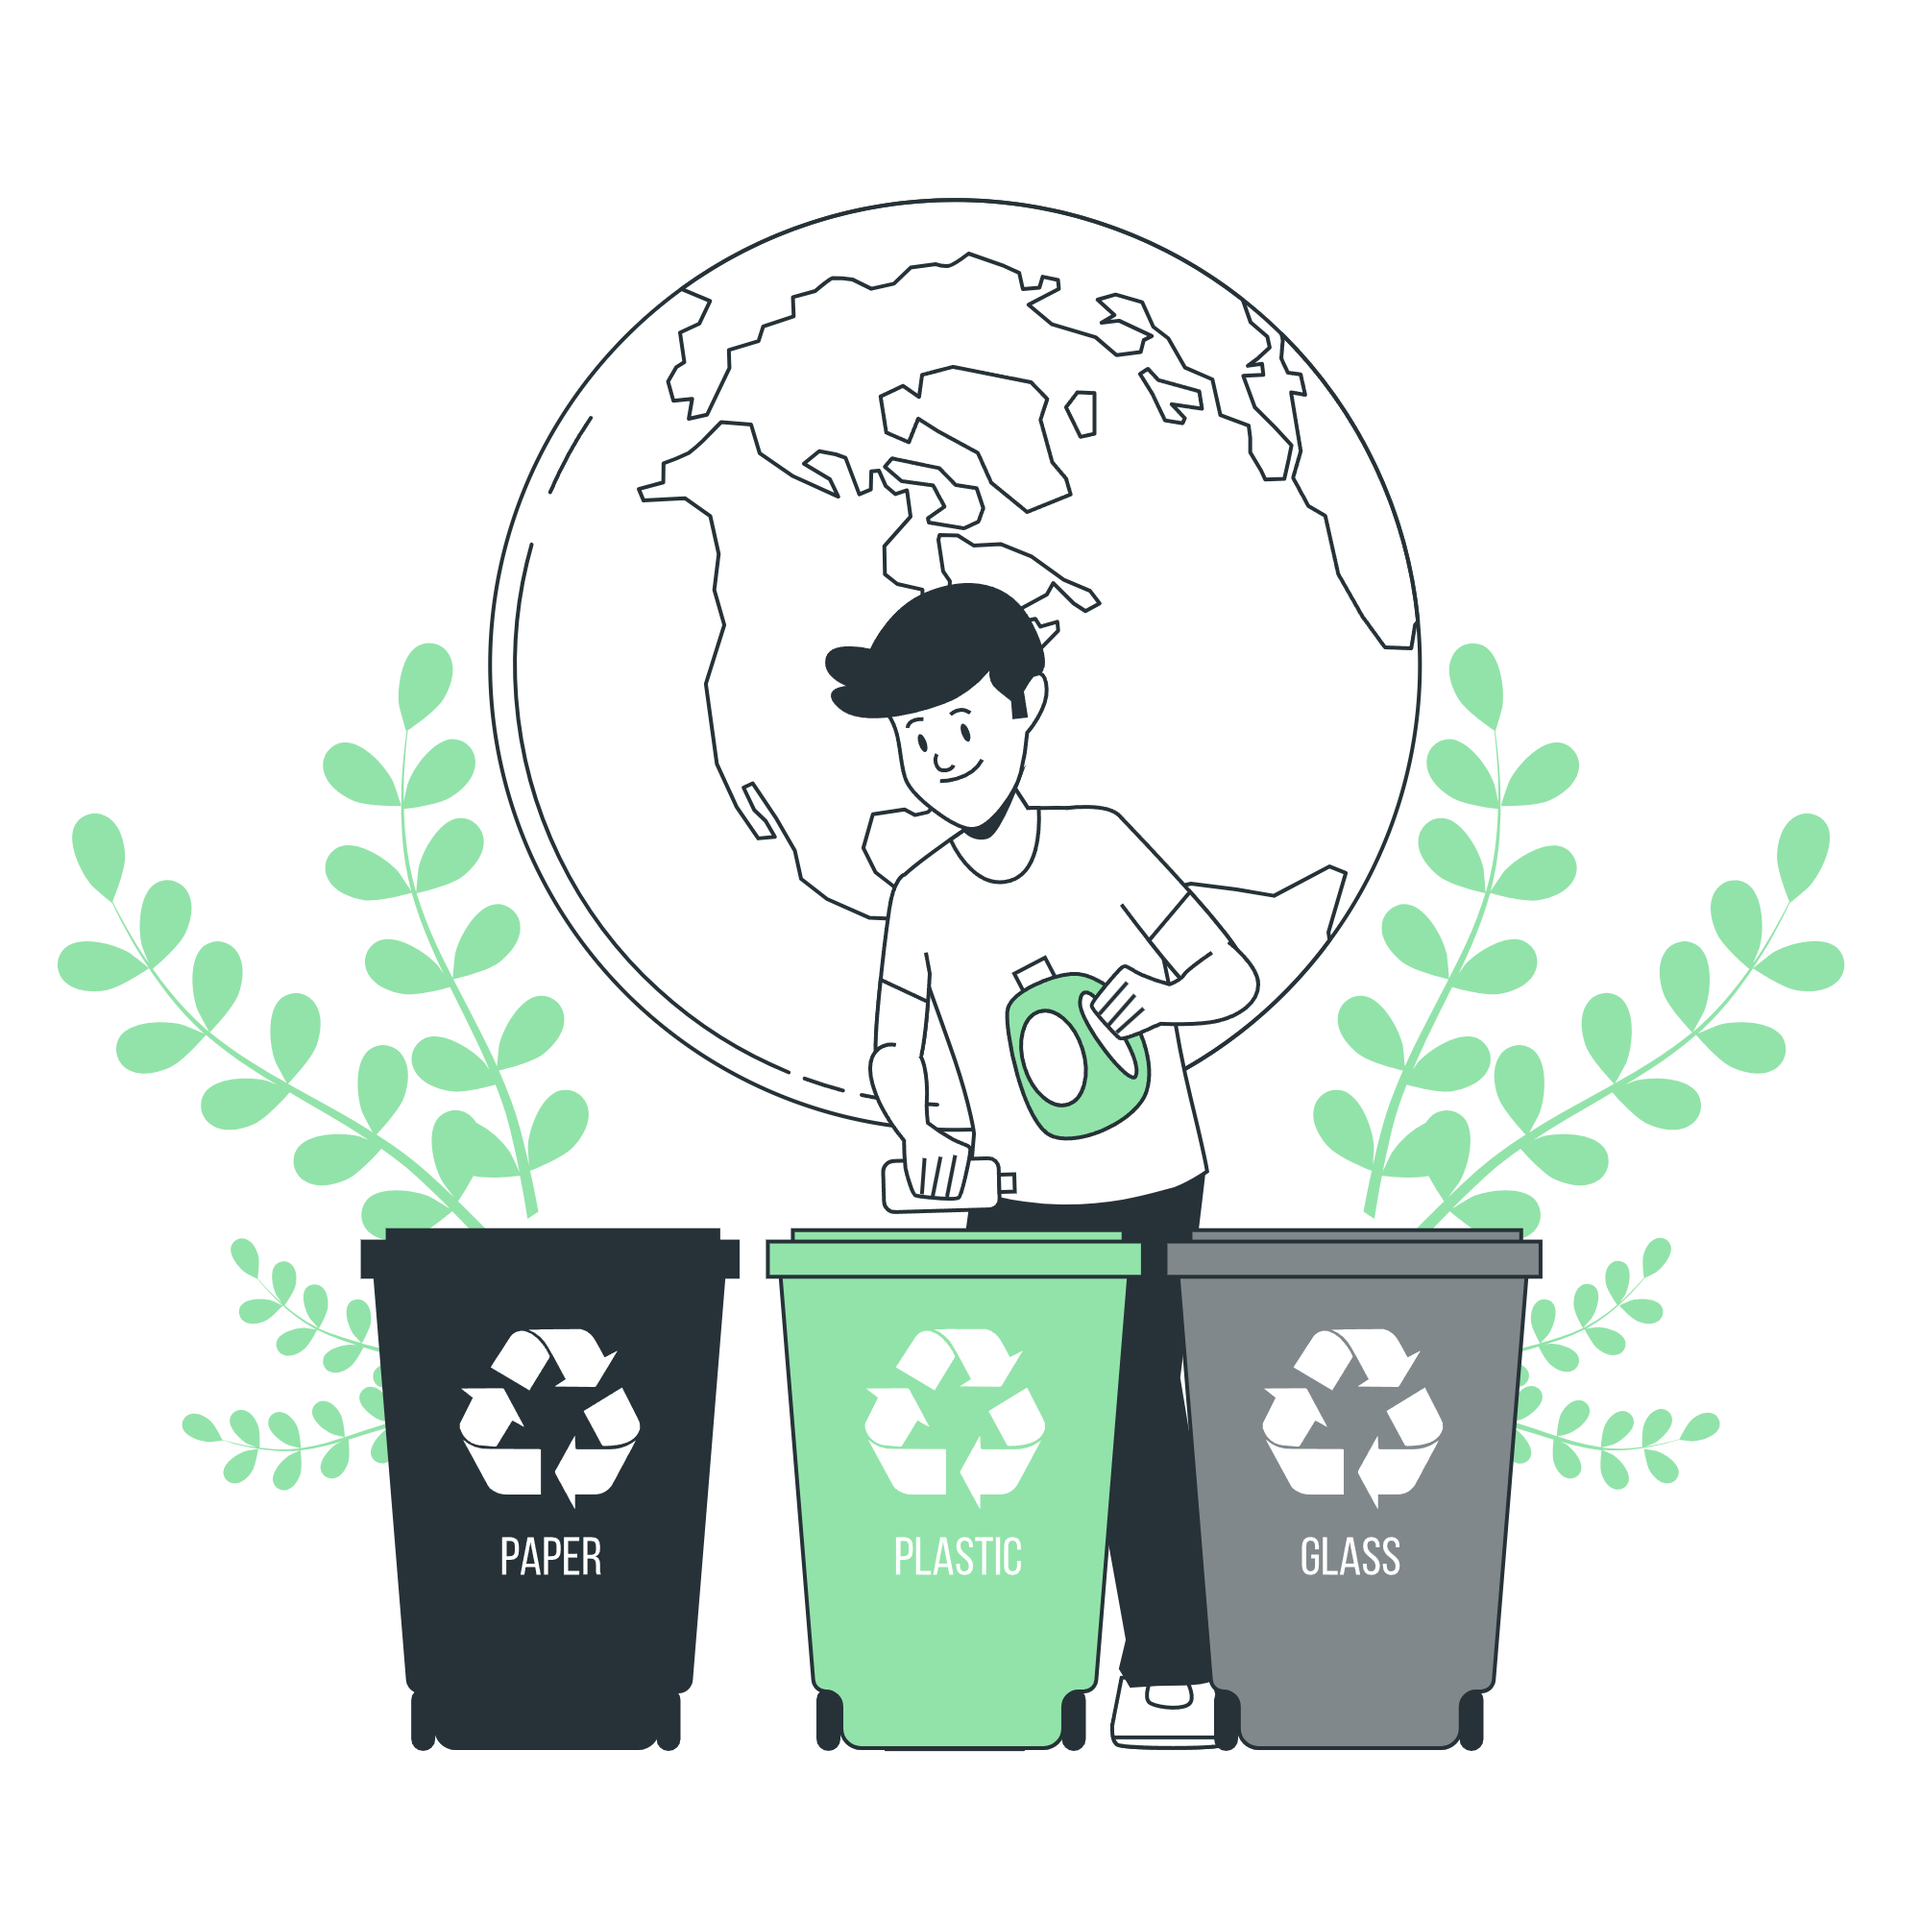
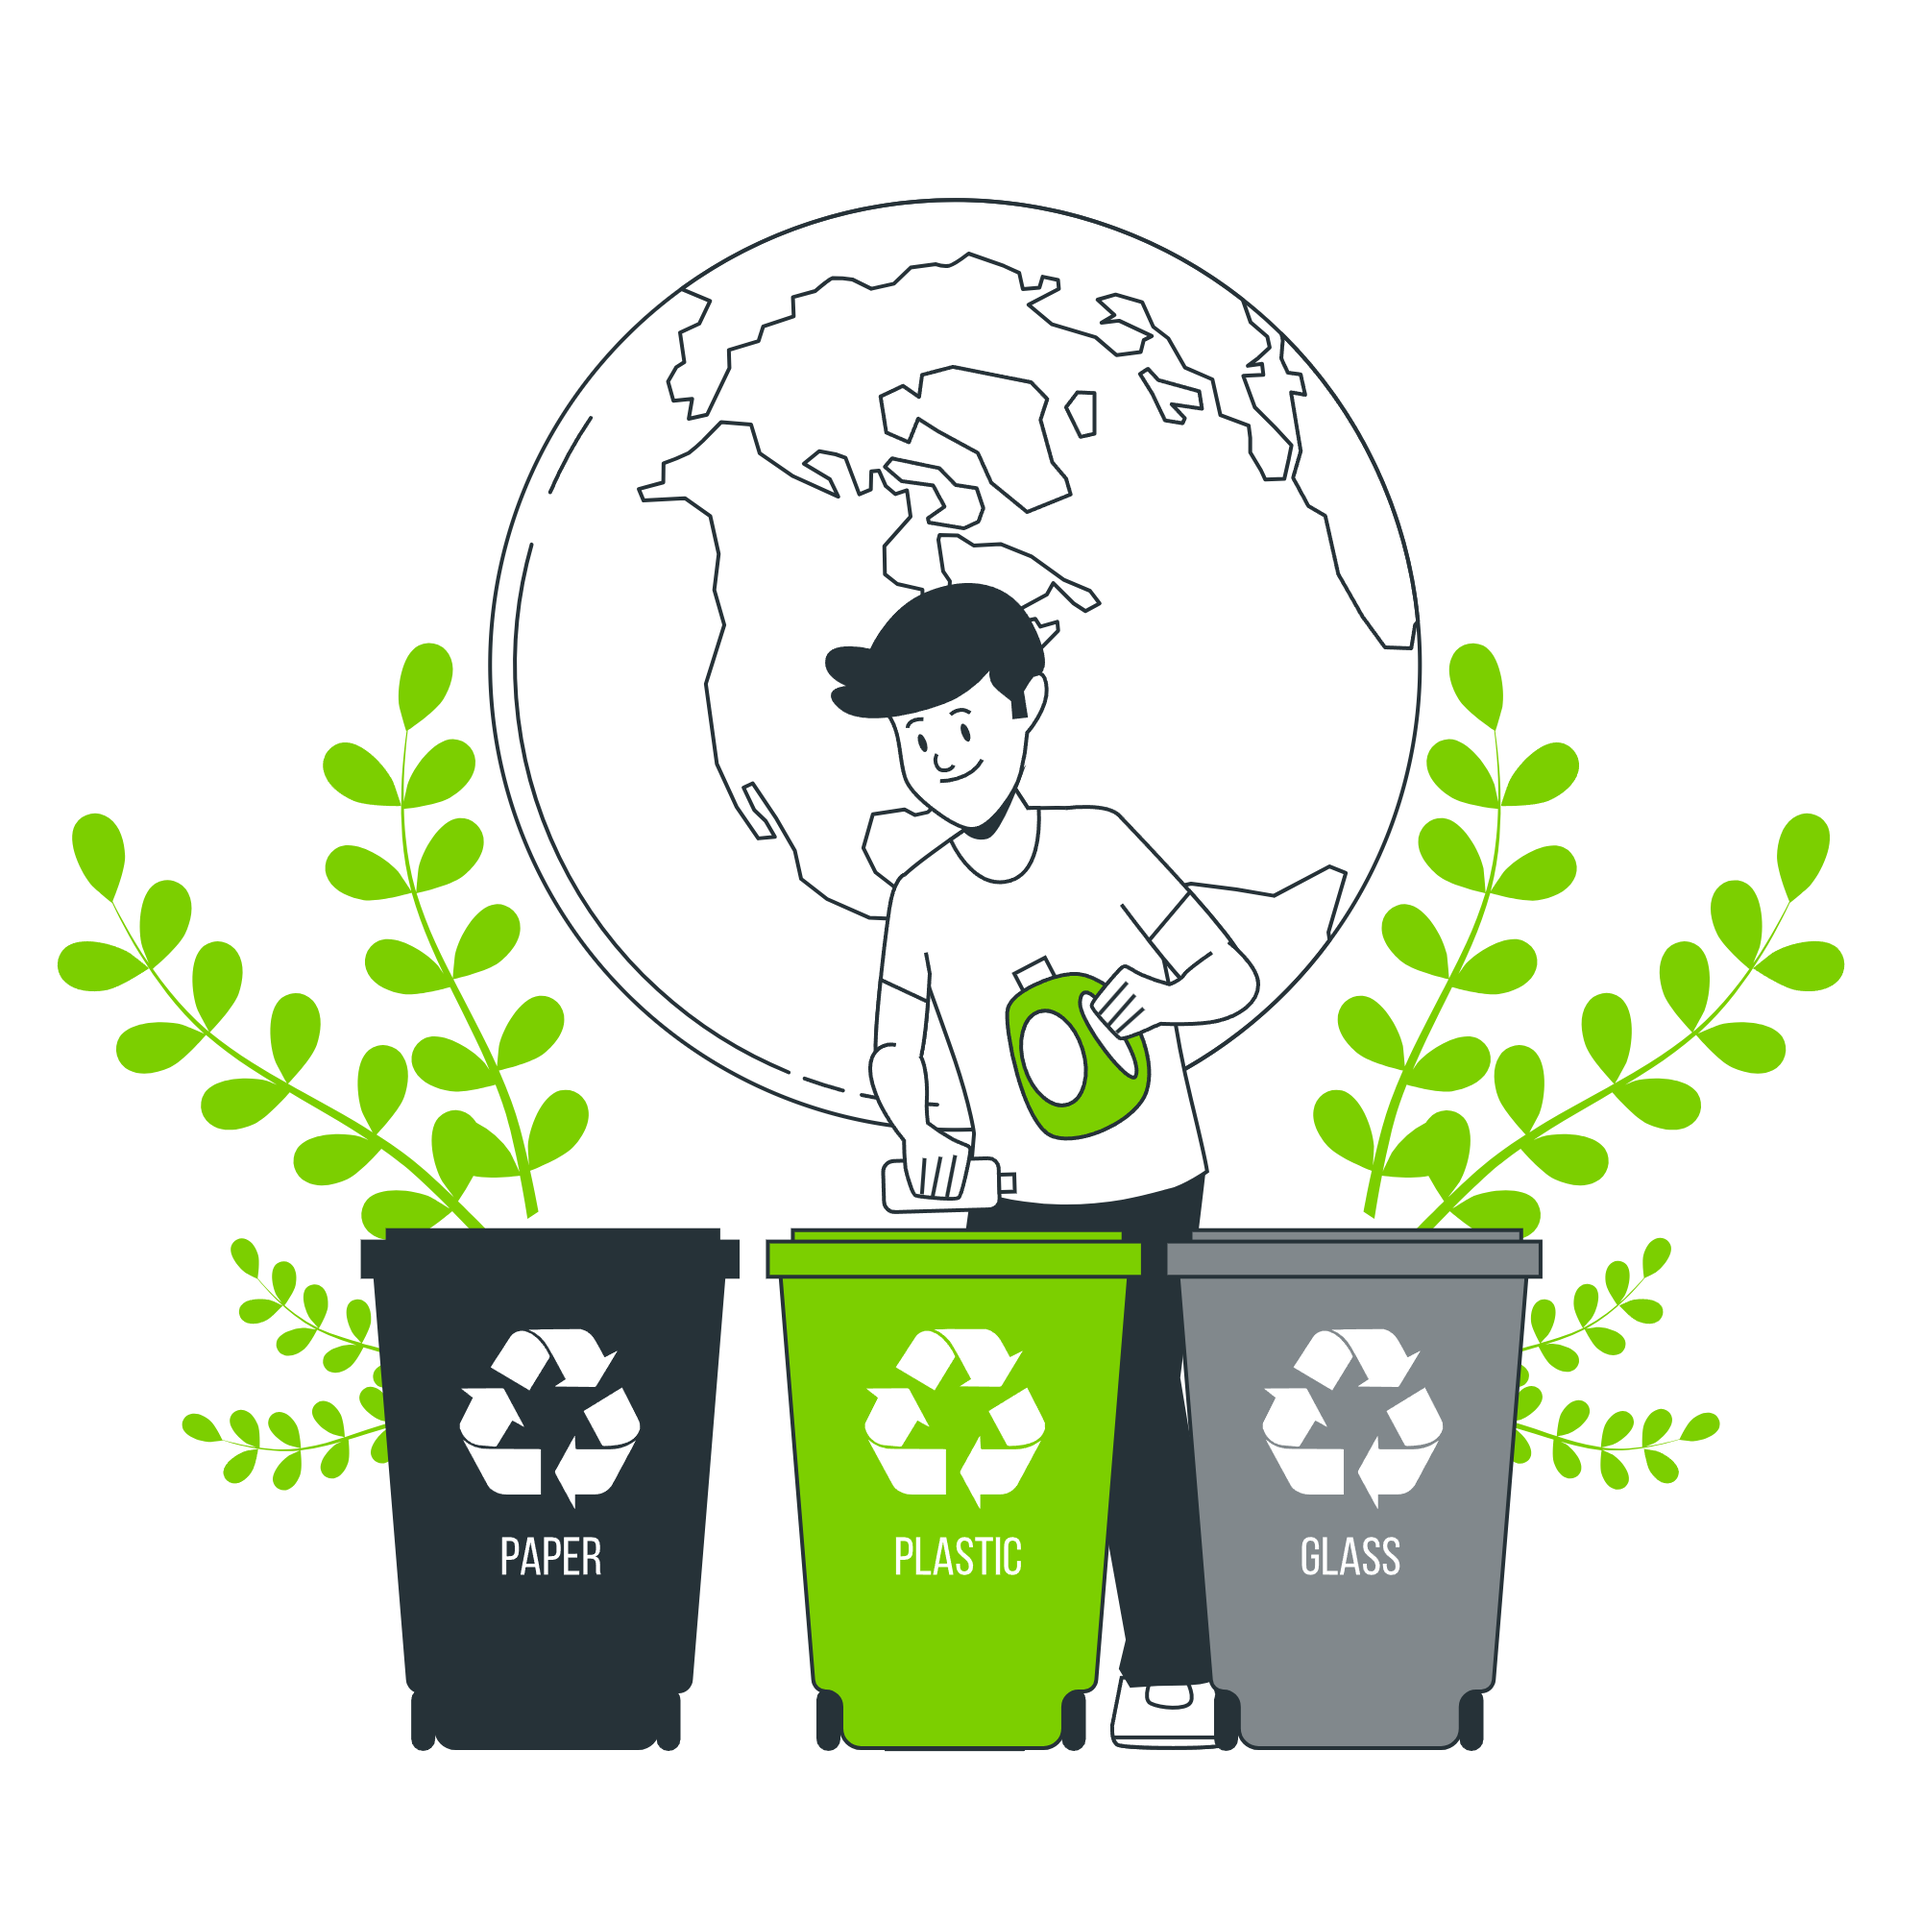
feat(homepage): create call-to-action section

diff --git a/src/components/home/CallToAction.tsx b/src/components/home/CallToAction.tsx
@@ -1,0 +1,49 @@
+import Link from "next/link";
+import { Button } from "@/components/ui/button";
+import { TbEyeSpark, TbUserPlus } from "react-icons/tb";
+
+export default function CallToAction() {
+	return (
+		<section className="px-4 pb-16 md:pb-24 lg:pb-40">
+			<div className="relative z-10 container mx-auto max-w-5xl overflow-hidden rounded-[2rem] bg-primary px-6 py-20 text-center text-background shadow-2xl md:px-16 md:py-24">
+				<div className="pointer-events-none absolute left-1/2 top-1/2 -z-10 h-8 w-8 -translate-x-1/2 -translate-y-1/2 rounded-full bg-primary/30 blur-[100px]" />
+
+				<h2 className="text-4xl font-extrabold tracking-tight md:text-5xl">
+					Ready to forge the future?
+				</h2>
+				<p className="mx-auto mt-4 max-w-2xl text-lg text-background/80 md:text-xl">
+					Join hundreds of innovators, engineers, and environmentalists building the
+					next generation of sustainable technology. Your idea could be the next one
+					we fund.
+				</p>
+
+				<div className="mt-8 flex flex-col justify-center gap-4 sm:flex-row">
+					<Link
+						href="/signup"
+						tabIndex={-1}
+					>
+						<Button
+							variant="outline"
+							className="h-13 w-full rounded-lg bg-lime-400 px-5! text-base font-bold hover:bg-background/10 hover:text-background sm:w-auto"
+						>
+							<TbUserPlus />
+							Create Free Account
+						</Button>
+					</Link>
+					<Link
+						href="/ideas"
+						tabIndex={-1}
+					>
+						<Button
+							variant="outline"
+							className="h-13 w-full rounded-lg border-background/20 bg-transparent px-5! text-base font-bold hover:bg-background/10 hover:text-background sm:w-auto"
+						>
+							<TbEyeSpark />
+							Explore the Platform
+						</Button>
+					</Link>
+				</div>
+			</div>
+		</section>
+	);
+}

diff --git a/src/app/(root)/page.tsx b/src/app/(root)/page.tsx
@@ -1,7 +1,8 @@
+import CallToAction from "@/components/home/CallToAction";
 import { Categories } from "@/components/home/Categories";
 import { Hero } from "@/components/home/Hero";
-import ImpactMetrics from "@/components/home/ImpactMetrics";
-import Newsletter from "@/components/home/Newsletter";
+import { ImpactMetrics } from "@/components/home/ImpactMetrics";
+import { Newsletter } from "@/components/home/Newsletter";
 import { TrendingIdeas } from "@/components/home/TrendingIdeas";
 
 export default function HomePage() {
@@ -12,6 +13,7 @@ export default function HomePage() {
 			<Categories />
 			<TrendingIdeas />
 			<Newsletter />
+			<CallToAction />
 		</main>
 	);
 }

diff --git a/src/components/home/Newsletter.tsx b/src/components/home/Newsletter.tsx
@@ -3,9 +3,9 @@
 import { Button } from "@/components/ui/button";
 import { Input } from "../ui/input";
 
-export default function Newsletter() {
+export function Newsletter() {
 	return (
-		<section className="border-t border-white/5 bg-zinc-900/25 px-4 py-16">
+		<section className="border-t border-white/5 bg-zinc-900/25 px-4 py-16 mb-16 md:mb-24 lg:mb-40">
 			<div className="container mx-auto max-w-xl text-center">
 				<h2 className="text-2xl font-extrabold tracking-tight md:text-4xl">
 					Stay in the loop

diff --git a/src/app/globals.css b/src/app/globals.css
@@ -121,7 +121,7 @@
 	--card-foreground: oklch(0.985 0 0);
 	--popover: oklch(0.21 0.006 285.885);
 	--popover-foreground: oklch(0.985 0 0);
-	--primary: oklch(0.768 0.233 130.85);
+	--primary: oklch(77.089% 0.21554 132.468);
 	--primary-foreground: oklch(0.21 0.006 285.885);
 	--secondary: oklch(0.274 0.006 286.033);
 	--secondary-foreground: oklch(0.985 0 0);

diff --git a/src/components/home/ImpactMetrics.tsx b/src/components/home/ImpactMetrics.tsx
@@ -1,4 +1,4 @@
-export default function ImpactMetrics() {
+export function ImpactMetrics() {
 	const metrics = [
 		{ value: "100+", label: "Ideas Forged" },
 		{ value: "4k+", label: "Votes Casted" },
